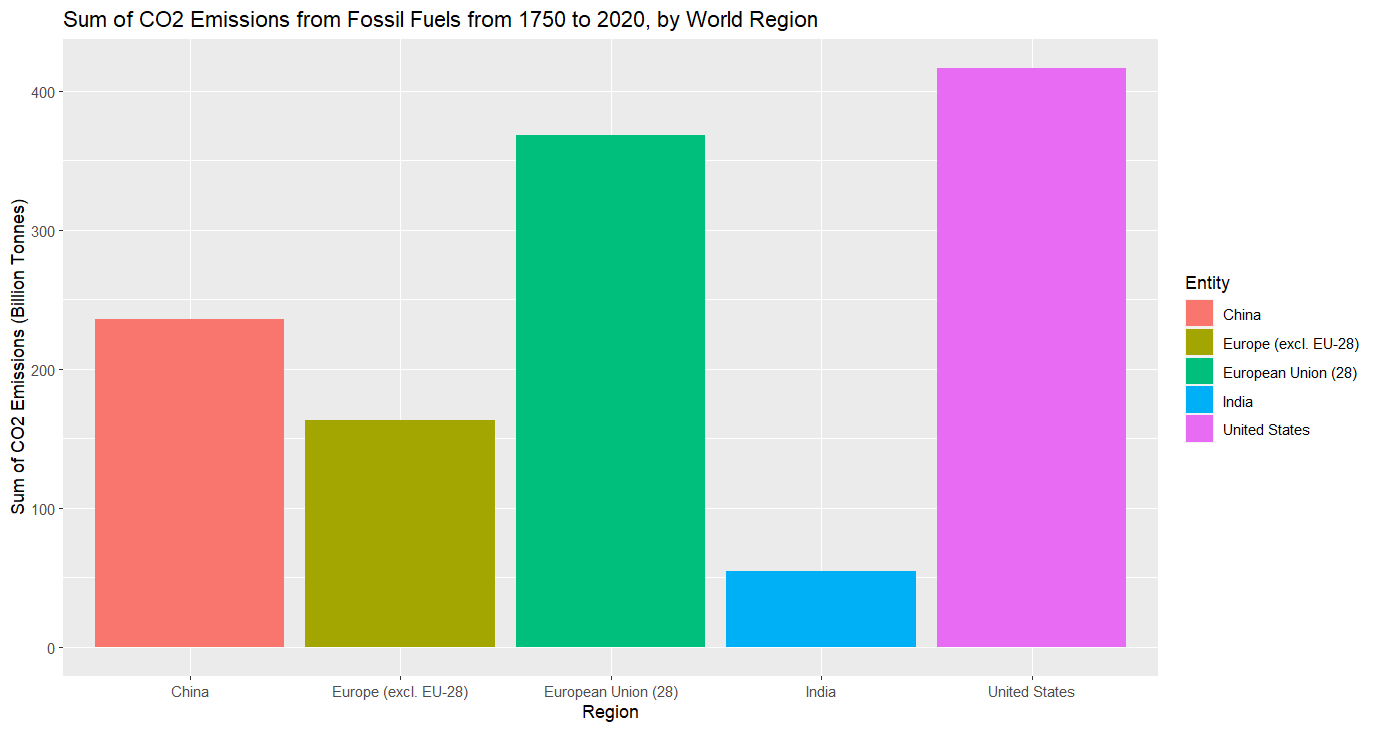
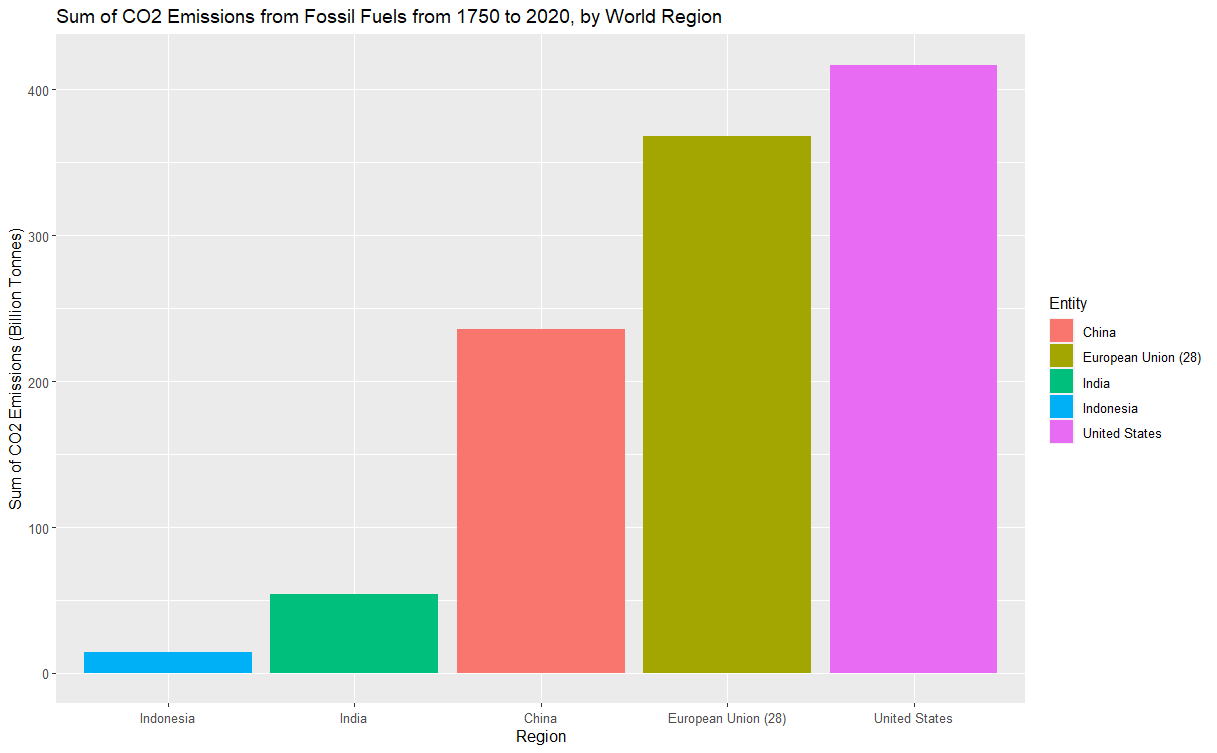
Update Plots

diff --git a/Short_Form_Blog_1.md b/Short_Form_Blog_1.md
@@ -1,6 +1,6 @@
 # Short Form Blogs 1
 
-After U.S. House of Representatives Speaker Nancy Pelosi's controversial trip to Taiwan, China suspended talks on climate cooperation with the U.S. This action again drew the attention of countries around the world as the U.S. and China are two of the biggest emitters of greenhouse gas emissions. Indeed, climate change has always been a topic of debate. In this blog, I want to discuss some possible ways to view the responsibilities of countries in combating climate change. And as a result, how to distribute the burden across the world. Then, with some data on key factors affecting greenhouse gas emissions like oil consumption, renewable energy utilization, and electric vehicle technology, I hope to get a better idea of how the situation might evolve in the coming years.
+After U.S. House of Representatives Speaker Nancy Pelosi's controversial trip to Taiwan, China suspended talks on climate cooperation with the U.S. This action again drew the attention of countries around the world as the U.S. and China are two of the biggest emitters of greenhouse gas emissions. Indeed, climate change has always been a topic of debate. In this blog, I want to discuss some possible ways to view the responsibilities of countries in combating climate change. And as a result, how to distribute the burden across the world. Then, I will talk about some relevant factors and how they might affect our effort to combat climate change based on what the EPA reports as the main contributors to greenhouse gas emissions. Specifically, that includes transportation, electricity generation, agriculture, and industry. I will detail the trends that might influence each of them to identify challenges and opportunities.
 
 ### Distribution of Burden
 
@@ -8,7 +8,7 @@ After U.S. House of Representatives Speaker Nancy Pelosi's controversial trip to
 <img src="Figures/ShortFormBlog-1/Plot1.png" width="800" />
 </p>
 
-The first plot above was made with data from the Global Carbon Project. It shows the change in annual emissions of the United States, EU countries, Europe Non-EU countries, China, and India. It represents a mix of developing and developed countries. Note that while there are many approaches for drawing the line between those two categories, I will use GDP per capita as it is popular and widely accepted. For countries with a GDP per capita greater than 20,000 dollars, I categorize them as developed and vice versa. Based on the graph, we can see that while the emissions of the developed regions have leveled off and even started to decrease, the emissions of China and India started to increase rapidly. Trends like these have drawn criticism from developed nations.
+The first plot above was made with data from the Global Carbon Project. It shows the change in annual emissions of the United States, European Union countries, China, Indonesia, and India. It represents a mix of developing and developed countries. Note that while there are many approaches for drawing the line between those two categories, I will use GDP per capita as it is popular and widely accepted. For countries with a GDP per capita greater than 20,000 dollars, I categorize them as developed and vice versa. Based on the graph, we can see that while the emissions of the developed regions have leveled off and even started to decrease, the emissions of China and India started to increase rapidly. Trends like these have drawn criticism from developed nations.
 
 
 <p align="center">
